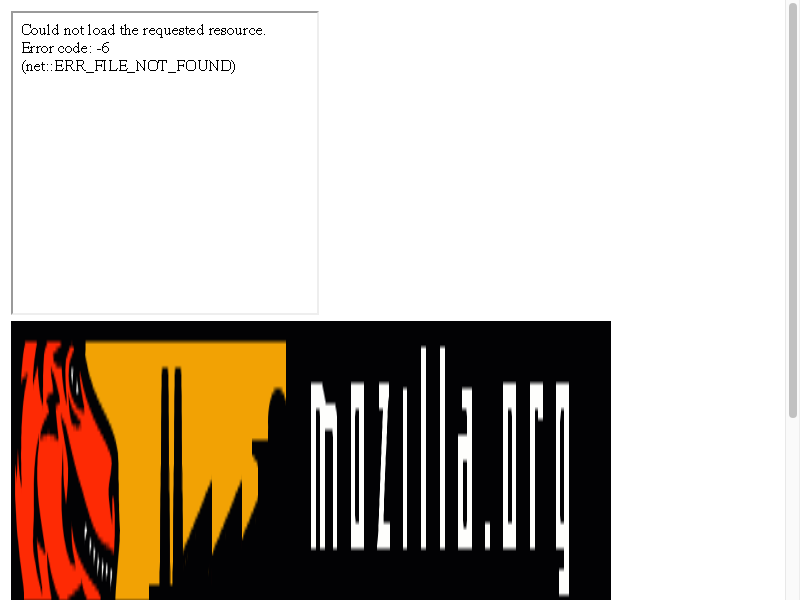
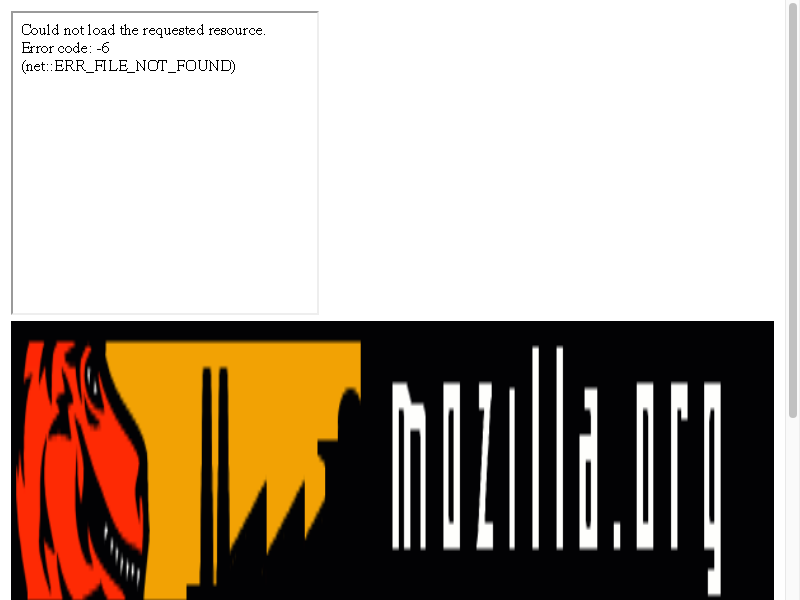
[ReplacedNG] Enable ReplacedNG via its RuntimeEnabledFeatures flag
We will now see if the improved spec compliance is web compatible.

We also still need to remove flex-specific replaced code now that
ReplacedNG has subsumed its functionality.

Bug: 1114280
Commit-Queue: Ian Kilpatrick <ikilpatrick@chromium.org>
Cr-Commit-Position: refs/heads/master@{#879196}
NOKEYCHECK=True
GitOrigin-RevId: 9dadd8f0a2f75f9a24d768e91962d438cec4e782

Changed region(s): [[0.0, 0.51, 0.9688, 1.0]]

diff --git a/blink/web_tests/fast/replaced/table-percent-width.html b/blink/web_tests/fast/replaced/table-percent-width.html
@@ -54,7 +54,7 @@ function test()
     shouldBe("getWidth('img-4')", "'102px'");
     shouldBe("getHeight('img-4')", "'102px'");
     shouldBe("getWidth('img-5')", "'40px'");
-    shouldBe("getHeight('img-5')", "'102px'");
+    shouldBe("getHeight('img-5')", "'42px'");
 
     isSuccessfullyParsed();
 
